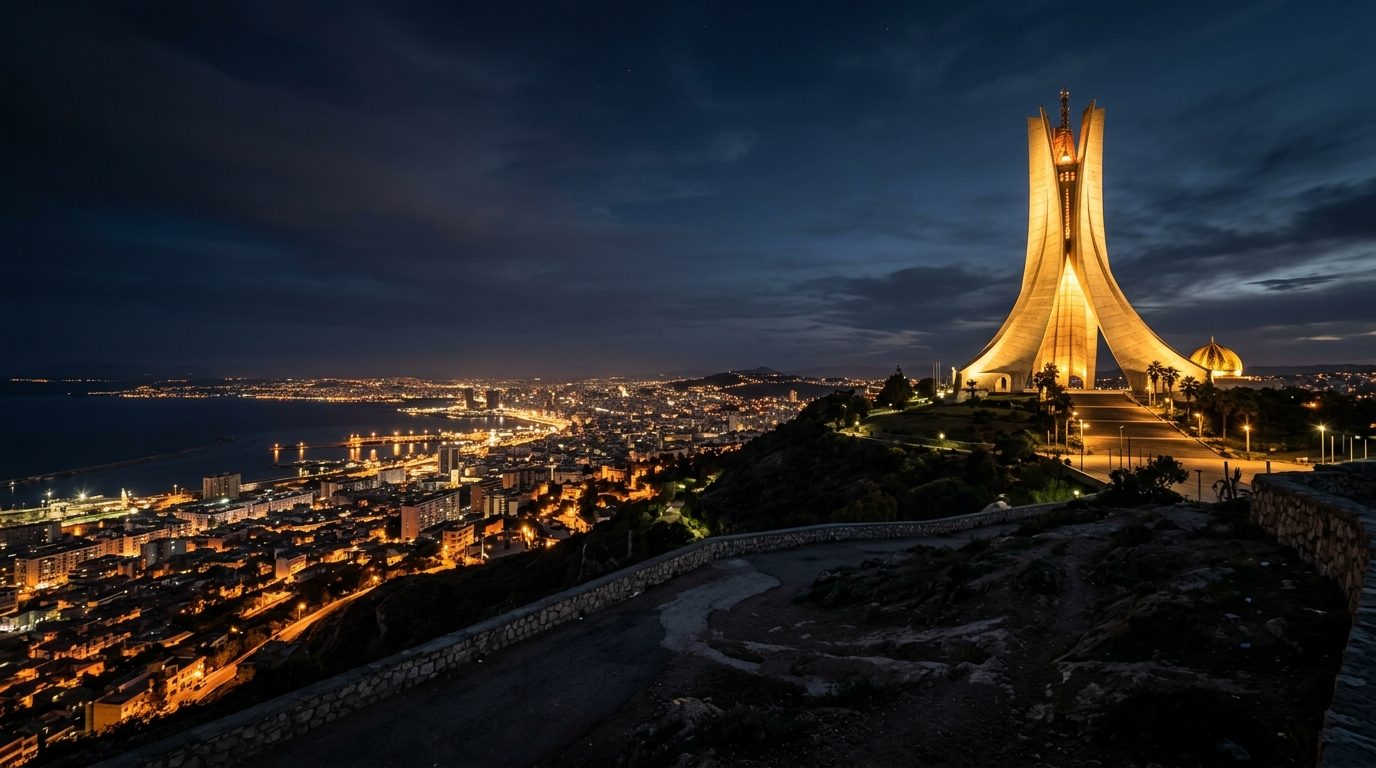
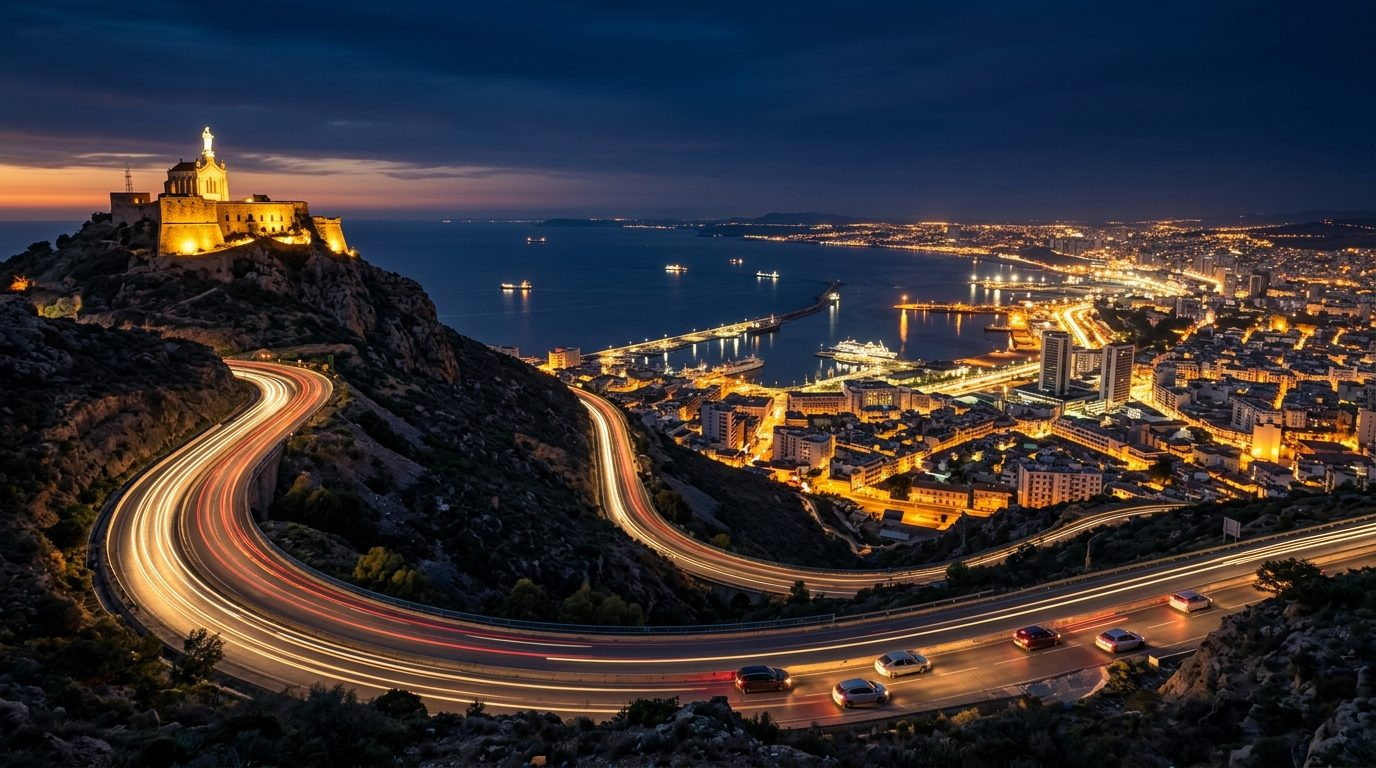
feat(assets): hero authentique Oran (Fort Santa Cruz & Baie d'Oran) + 3 nouveaux modeles de voitures (Dacia Logan, Peugeot 208, Renault Kangoo)

diff --git a/vehicules.html b/vehicules.html
@@ -266,8 +266,12 @@
 
         <!-- Dacia Logan -->
         <article class="card car-card" data-cat="familiale" id="car-logan">
-          <div class="car-card-img-wrap" style="background:#1a1a1a; display:flex; align-items:center; justify-content:center;">
-            <div style="font-size:5rem; opacity:0.3;">🚙</div>
+          <div class="car-card-img-wrap">
+            <picture>
+              <source srcset="assets/images/logan.webp" type="image/webp" />
+              <img src="assets/images/logan.jpg" alt="Dacia Logan Berline Oran" width="400" height="300" loading="lazy" decoding="async" />
+            </picture>
+            <div class="car-badge"><span class="badge badge-gold">Familiale</span></div>
           </div>
           <div class="car-card-body">
             <div class="car-category">Berline Familiale · 5 Portes</div>
@@ -290,8 +294,12 @@
 
         <!-- Peugeot 208 -->
         <article class="card car-card" data-cat="economique" id="car-peugeot">
-          <div class="car-card-img-wrap" style="background:#1a1a1a;display:flex;align-items:center;justify-content:center;">
-            <div style="font-size:5rem;opacity:0.3;">🚗</div>
+          <div class="car-card-img-wrap">
+            <picture>
+              <source srcset="assets/images/peugeot208.webp" type="image/webp" />
+              <img src="assets/images/peugeot208.jpg" alt="Peugeot 208 Oran" width="400" height="300" loading="lazy" decoding="async" />
+            </picture>
+            <div class="car-badge"><span class="badge badge-gold">Économique</span></div>
           </div>
           <div class="car-card-body">
             <div class="car-category">Citadine · 5 Portes</div>
@@ -314,8 +322,12 @@
 
         <!-- Utilitaire -->
         <article class="card car-card" data-cat="utilitaire" id="car-kangoo">
-          <div class="car-card-img-wrap" style="background:#1a1a1a;display:flex;align-items:center;justify-content:center;">
-            <div style="font-size:5rem;opacity:0.3;">🚐</div>
+          <div class="car-card-img-wrap">
+            <picture>
+              <source srcset="assets/images/kangoo.webp" type="image/webp" />
+              <img src="assets/images/kangoo.jpg" alt="Renault Kangoo Utilitaire Oran" width="400" height="300" loading="lazy" decoding="async" />
+            </picture>
+            <div class="car-badge"><span class="badge badge-gold">Utilitaire</span></div>
           </div>
           <div class="car-card-body">
             <div class="car-category">Utilitaire · 5 Portes</div>

diff --git a/reservation.html b/reservation.html
@@ -256,6 +256,30 @@
             <div class="car-select-name">Hyundai i10</div>
             <div class="car-select-price">2 500 DZD/jour</div>
           </div>
+          <div class="car-select-card" id="select-logan" onclick="selectCar(this, 'Dacia Logan', 3500)" data-car="logan">
+            <picture>
+              <source srcset="assets/images/logan.webp" type="image/webp" />
+              <img src="assets/images/logan.jpg" alt="Dacia Logan" loading="lazy" decoding="async" />
+            </picture>
+            <div class="car-select-name">Dacia Logan</div>
+            <div class="car-select-price">3 500 DZD/jour</div>
+          </div>
+          <div class="car-select-card" id="select-peugeot208" onclick="selectCar(this, 'Peugeot 208', 3200)" data-car="peugeot208">
+            <picture>
+              <source srcset="assets/images/peugeot208.webp" type="image/webp" />
+              <img src="assets/images/peugeot208.jpg" alt="Peugeot 208" loading="lazy" decoding="async" />
+            </picture>
+            <div class="car-select-name">Peugeot 208</div>
+            <div class="car-select-price">3 200 DZD/jour</div>
+          </div>
+          <div class="car-select-card" id="select-kangoo" onclick="selectCar(this, 'Renault Kangoo', 4000)" data-car="kangoo">
+            <picture>
+              <source srcset="assets/images/kangoo.webp" type="image/webp" />
+              <img src="assets/images/kangoo.jpg" alt="Renault Kangoo" loading="lazy" decoding="async" />
+            </picture>
+            <div class="car-select-name">Renault Kangoo</div>
+            <div class="car-select-price">4 000 DZD/jour</div>
+          </div>
         </div>
 
         <div class="form-group" style="margin-bottom:24px;">
@@ -690,8 +714,22 @@
     if (urlCar) {
       const el = document.getElementById('select-' + urlCar);
       if (el) {
-        const priceMap = { clio5: 3000, geely: 4500, i10: 2500 };
-        const nameMap  = { clio5: 'Renault Clio 5', geely: 'Geely GX3 Pro', i10: 'Hyundai i10' };
+        const priceMap = {
+          clio5: 3000,
+          geely: 4500,
+          i10: 2500,
+          logan: 3500,
+          peugeot208: 3200,
+          kangoo: 4000
+        };
+        const nameMap = {
+          clio5: 'Renault Clio 5',
+          geely: 'Geely GX3 Pro',
+          i10: 'Hyundai i10',
+          logan: 'Dacia Logan',
+          peugeot208: 'Peugeot 208',
+          kangoo: 'Renault Kangoo'
+        };
         selectCar(el, nameMap[urlCar], priceMap[urlCar]);
       }
     }
